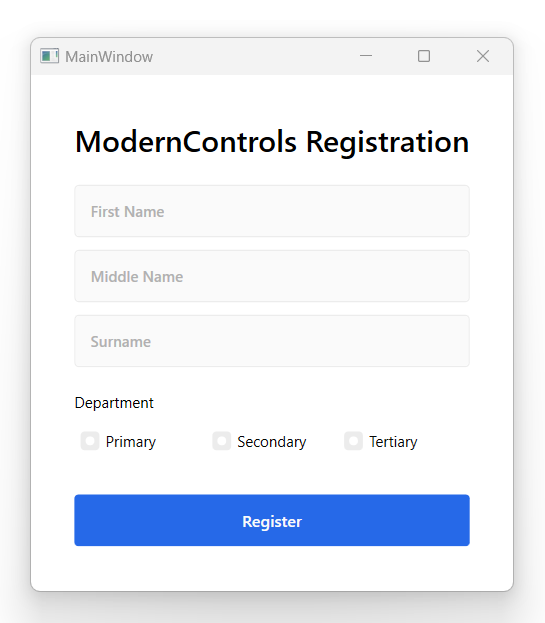
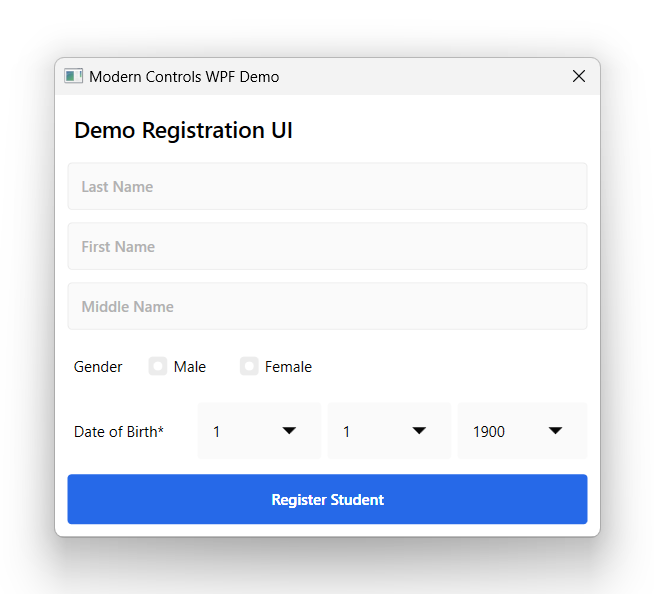
chore: update demo project and screenshot

diff --git a/Russkyc.ModernControls.WPF.Demo/MainWindow.xaml b/Russkyc.ModernControls.WPF.Demo/MainWindow.xaml
@@ -2,18 +2,19 @@
         xmlns="http://schemas.microsoft.com/winfx/2006/xaml/presentation"
         xmlns:x="http://schemas.microsoft.com/winfx/2006/xaml"
         xmlns:d="http://schemas.microsoft.com/expression/blend/2008"
-        xmlns:local="clr-namespace:Russkyc.ModernControls.WPF.Demo"
+        xmlns:demo="clr-namespace:Russkyc.ModernControls.WPF.Demo"
         xmlns:mc="http://schemas.openxmlformats.org/markup-compatibility/2006"
         xmlns:moderncontrols="clr-namespace:org.russkyc.moderncontrols;assembly=Russkyc.ModernControls.WPF"
-        Title="MainWindow"
-        Width="800"
-        Height="450"
+        Title="Modern Controls WPF Demo"
+        Width="450"
+        ResizeMode="NoResize"
+        SizeToContent="Height"
+        WindowStartupLocation="CenterScreen"
         mc:Ignorable="d">
-    <Grid>
-        <Grid.ColumnDefinitions>
-            <ColumnDefinition Width="*" />
-            <ColumnDefinition Width="125" />
-        </Grid.ColumnDefinitions>
+    <Window.DataContext>
+        <demo:RegistrationViewModel />
+    </Window.DataContext>
+    <Grid Margin="10">
         <Grid.RowDefinitions>
             <RowDefinition Height="Auto" />
             <RowDefinition Height="Auto" />
@@ -23,43 +24,70 @@
             <RowDefinition Height="Auto" />
             <RowDefinition Height="Auto" />
             <RowDefinition Height="Auto" />
+            <RowDefinition Height="Auto" />
+            <RowDefinition Height="Auto" />
         </Grid.RowDefinitions>
-        <moderncontrols:ModernTextBox Grid.Row="0"
-                                      Grid.Column="0"
-                                      Placeholder="Text Here" />
-        <moderncontrols:ModernButton Grid.Row="0"
-                                     Grid.Column="1"
-                                     Content="Hello"
-                                     FontWeight="Bold" />
+        <Label Grid.Row="0"
+               Margin="0,0,0,0"
+               Content="Demo Registration UI"
+               FontSize="18"
+               FontWeight="Medium" />
         <moderncontrols:ModernTextBox Grid.Row="1"
-                                      Grid.Column="0"
-                                      Placeholder="Text Here Placeholder" />
-        <moderncontrols:ModernButton Grid.Row="1"
-                                     Grid.Column="1"
-                                     Content="Hello"
-                                     FontWeight="Medium" />
-        <moderncontrols:ModernComboBox x:Name="CmbPrimary"
-                                       Grid.Row="2"
-                                       Grid.Column="0"
-                                       IsEditable="True"
-                                       SelectedIndex="0" />
-        <moderncontrols:ModernRadio Grid.Row="2"
-                                    Grid.Column="1"
-                                    Content="Hello Radio"
-                                    FontWeight="Bold" />
-        <moderncontrols:ModernRadio Grid.Row="3"
-                                    Grid.Column="1"
-                                    Content="Hello Radio" />
-        <moderncontrols:ModernRadioButton Grid.Row="4"
-                                          Grid.Column="1"
-                                          Content="Hello Radio" />
-        <moderncontrols:ModernRadioButton Grid.Row="5"
-                                          Grid.Column="1"
-                                          Content="Hello Radio"
-                                          FontWeight="DemiBold" />
-        <moderncontrols:ModernToggleButton Grid.Row="6"
-                                           Grid.Column="1"
-                                           Content="Hello Radio"
-                                           FontWeight="DemiBold" />
+                                      Margin="0,10,0,0"
+                                      Placeholder="Last Name"
+                                      Text="{Binding LastName, UpdateSourceTrigger=PropertyChanged}" />
+        <moderncontrols:ModernTextBox Grid.Row="2"
+                                      Margin="0,10,0,0"
+                                      Placeholder="First Name"
+                                      Text="{Binding FirstName, UpdateSourceTrigger=PropertyChanged}" />
+        <moderncontrols:ModernTextBox Grid.Row="3"
+                                      Margin="0,10,0,0"
+                                      Placeholder="Middle Name"
+                                      Text="{Binding MiddleName, UpdateSourceTrigger=PropertyChanged}" />
+        <StackPanel Grid.Row="7"
+                    Margin="0,10,0,0"
+                    Orientation="Horizontal">
+            <Label Margin="0,0,5,0"
+                   VerticalAlignment="Center"
+                   Content="Gender" />
+            <moderncontrols:ModernRadio Margin="0,0,5,0"
+                                        VerticalAlignment="Center"
+                                        Content="Male"
+                                        IsChecked="{Binding Male, UpdateSourceTrigger=PropertyChanged}" />
+            <moderncontrols:ModernRadio Margin="0,0,5,0"
+                                        VerticalAlignment="Center"
+                                        Content="Female"
+                                        IsChecked="{Binding Female, UpdateSourceTrigger=PropertyChanged}" />
+        </StackPanel>
+        <Grid Grid.Row="8" Margin="0,10,0,0">
+            <Grid.ColumnDefinitions>
+                <ColumnDefinition />
+                <ColumnDefinition />
+                <ColumnDefinition />
+                <ColumnDefinition />
+            </Grid.ColumnDefinitions>
+            <Label Grid.Column="0"
+                   VerticalAlignment="Center"
+                   Content="Date of Birth*" />
+            <moderncontrols:ModernComboBox Grid.Column="1"
+                                           Margin="0,0,5,0"
+                                           ItemsSource="{Binding Day, UpdateSourceTrigger=PropertyChanged}"
+                                           SelectedIndex="{Binding SelectedDay, UpdateSourceTrigger=PropertyChanged}" />
+            <moderncontrols:ModernComboBox Grid.Column="2"
+                                           Margin="0,0,5,0"
+                                           ItemsSource="{Binding Month, UpdateSourceTrigger=PropertyChanged}"
+                                           SelectedIndex="{Binding SelectedMonth, UpdateSourceTrigger=PropertyChanged}" />
+            <moderncontrols:ModernComboBox Grid.Column="3"
+                                           ItemsSource="{Binding Year, UpdateSourceTrigger=PropertyChanged}"
+                                           SelectedIndex="{Binding SelectedYear, UpdateSourceTrigger=PropertyChanged}" />
+        </Grid>
+        <moderncontrols:ModernButton Grid.Row="9"
+                                     Margin="0,12,0,0"
+                                     Padding="12"
+                                     HorizontalContentAlignment="Center"
+                                     Command="{Binding RegisterCommand}"
+                                     Content="Register Student"
+                                     FontWeight="DemiBold"
+                                     Foreground="White" />
     </Grid>
 </Window>

diff --git a/Russkyc.ModernControls.WPF.Demo/RegistrationViewModel.cs b/Russkyc.ModernControls.WPF.Demo/RegistrationViewModel.cs
@@ -1,0 +1,68 @@
+using System;
+using System.Collections.ObjectModel;
+using System.Windows;
+using CommunityToolkit.Mvvm.ComponentModel;
+using CommunityToolkit.Mvvm.Input;
+
+namespace Russkyc.ModernControls.WPF.Demo;
+
+partial class RegistrationViewModel : ObservableObject
+{
+    [ObservableProperty]
+    private string _firstName;
+    
+    [ObservableProperty]
+    private string _middleName;
+    
+    [ObservableProperty]
+    private string _lastName;
+    
+    [ObservableProperty]
+    private bool _male;
+    
+    [ObservableProperty]
+    private bool _female;
+
+    [ObservableProperty]
+    private ObservableCollection<int> _day;
+    
+    [ObservableProperty]
+    private ObservableCollection<int> _month;
+    
+    [ObservableProperty]
+    private ObservableCollection<int> _year;
+
+    [ObservableProperty]
+    private int _selectedDay;
+    
+    [ObservableProperty]
+    private int _selectedMonth;
+    
+    [ObservableProperty]
+    private int _selectedYear;
+
+    public RegistrationViewModel()
+    {
+
+        SelectedDay = 0;
+        SelectedMonth = 0;
+        SelectedYear = 0;
+
+        Day = new ObservableCollection<int>();
+        Month = new ObservableCollection<int>();
+        Year = new ObservableCollection<int>();
+            
+        for (int i = 1; i <= 30; i++) Day.Add(i);
+        for (int i = 1; i <= 12; i++) Month.Add(i);
+        for (int i = 1900; i <= 2022; i++) Year.Add(i);
+    }
+
+    [RelayCommand]
+    void Register()
+    {
+        var name = $"{FirstName} {MiddleName} {LastName}";
+        var gender = Male ? "Male" : Female ? "Female" : "Prefer Not to Say";
+        var dateOfBirth = $"{Day[SelectedDay]}/{Month[SelectedMonth]}/{Year[SelectedYear]}";
+        MessageBox.Show($"StudentName: {name} {Environment.NewLine}Gender: {gender}{Environment.NewLine}Date of Birth: {dateOfBirth}");
+    }
+}

diff --git a/Russkyc.ModernControls.WPF.Demo/MainWindow.xaml.cs b/Russkyc.ModernControls.WPF.Demo/MainWindow.xaml.cs
@@ -1,17 +1,4 @@
-using System;
-using System.Collections.Generic;
-using System.Linq;
-using System.Text;
-using System.Threading.Tasks;
-using System.Windows;
-using System.Windows.Controls;
-using System.Windows.Data;
-using System.Windows.Documents;
-using System.Windows.Input;
-using System.Windows.Media;
-using System.Windows.Media.Imaging;
-using System.Windows.Navigation;
-using System.Windows.Shapes;
+using System.Windows;
 
 namespace Russkyc.ModernControls.WPF.Demo
 {
@@ -20,11 +7,6 @@ namespace Russkyc.ModernControls.WPF.Demo
     /// </summary>
     public partial class MainWindow : Window
     {
-        public MainWindow()
-        {
-            InitializeComponent();
-            
-            for (int i = 1; i <= 20; i++) CmbPrimary.Items.Add(i);
-        }
+        
     }
 }
